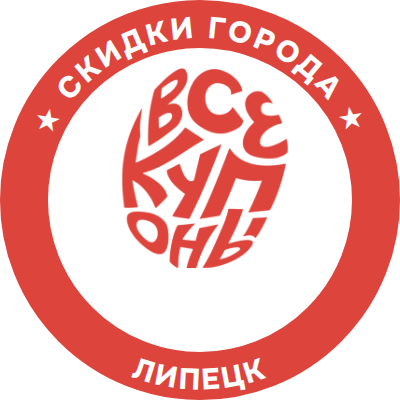
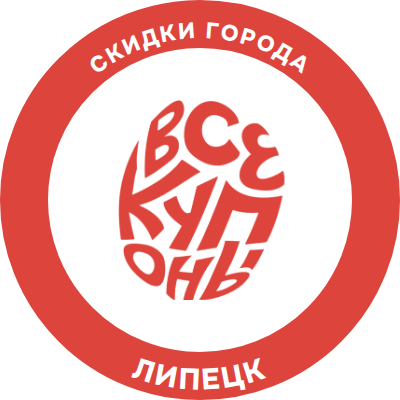
Соцсети: печать — шар по центру, без звёздочек
Claude-Session: https://claude.ai/code/session_01VVvPvHVUv25TaftPDqbPP7

diff --git a/social-kit/kit.js b/social-kit/kit.js
@@ -67,8 +67,8 @@ const AVAS = [
   ["tilt", "av--red", BALL.replace("LOGO", "logo-white"), "Наклейка", "Белый шар крупно на красном, с наклоном — живее, как плашка города на сайте. Ярко и читается в любом размере."],
   ["ring", "",        BALL.replace("LOGO", "logo-red") + '<svg class="arc" viewBox="0 0 100 100"><circle cx="50" cy="50" r="47"/><path id="ARC" d="M9,50A41,41 0 0 0 91,50" fill="none"/><text text-anchor="middle"><textPath href="#ARC" startOffset="50%" data-av-town></textPath></text></svg>', "Город по кругу", "Город дугой по нижнему краю, как на печати или значке. Длинные названия ужимаются по дуге."],
   ["ring-red",  "av--red av-ring", BALL.replace("LOGO", "logo-white") + '<svg class="arc" viewBox="0 0 100 100"><circle cx="50" cy="50" r="47"/><path id="ARC" d="M9,50A41,41 0 0 0 91,50" fill="none"/><text text-anchor="middle"><textPath href="#ARC" startOffset="50%" data-av-town></textPath></text></svg>', "Город по кругу, на красном", "Тот же значок-печать, но белым по красному: ярче в списках, город по нижней дуге."],
-  ["ring-band", "av-ring av-band", BALL.replace("LOGO", "logo-red") + '<svg class="arc" viewBox="0 0 100 100"><circle class="band" cx="50" cy="50" r="44"/><path id="ARC" d="M2.6,50A47.4,47.4 0 0 0 97.4,50" fill="none"/><path id="ARCT" d="M9.5,50A40.5,40.5 0 0 1 90.5,50" fill="none"/><text text-anchor="middle" data-fs="7.4" data-max="128"><textPath href="#ARC" startOffset="50%" data-av-town></textPath></text><text text-anchor="middle" class="top" font-size="5.6"><textPath href="#ARCT" startOffset="50%">★ СКИДКИ ГОРОДА ★</textPath></text></svg>', "Печать с красным ободом", "Город белыми буквами в широком красном ободе, сверху «★ скидки города ★». Город крупнее и читается раньше."],
-  ["ring-band-red", "av--red av-ring av-band", BALL.replace("LOGO", "logo-white") + '<svg class="arc" viewBox="0 0 100 100"><circle class="band" cx="50" cy="50" r="44"/><path id="ARC" d="M2.6,50A47.4,47.4 0 0 0 97.4,50" fill="none"/><path id="ARCT" d="M9.5,50A40.5,40.5 0 0 1 90.5,50" fill="none"/><text text-anchor="middle" data-fs="7.4" data-max="128"><textPath href="#ARC" startOffset="50%" data-av-town></textPath></text><text text-anchor="middle" class="top" font-size="5.6"><textPath href="#ARCT" startOffset="50%">★ СКИДКИ ГОРОДА ★</textPath></text></svg>', "Печать на красном", "Наоборот: красный центр с белым шаром и белый обод с красным городом."]
+  ["ring-band", "av-ring av-band", BALL.replace("LOGO", "logo-red") + '<svg class="arc" viewBox="0 0 100 100"><circle class="band" cx="50" cy="50" r="44"/><path id="ARC" d="M2.6,50A47.4,47.4 0 0 0 97.4,50" fill="none"/><path id="ARCT" d="M9.5,50A40.5,40.5 0 0 1 90.5,50" fill="none"/><text text-anchor="middle" data-fs="7.4" data-max="128"><textPath href="#ARC" startOffset="50%" data-av-town></textPath></text><text text-anchor="middle" class="top" font-size="5.6"><textPath href="#ARCT" startOffset="50%">СКИДКИ ГОРОДА</textPath></text></svg>', "Печать с красным ободом", "Город белыми буквами в широком красном ободе, сверху «скидки города». Город крупнее и читается раньше."],
+  ["ring-band-red", "av--red av-ring av-band", BALL.replace("LOGO", "logo-white") + '<svg class="arc" viewBox="0 0 100 100"><circle class="band" cx="50" cy="50" r="44"/><path id="ARC" d="M2.6,50A47.4,47.4 0 0 0 97.4,50" fill="none"/><path id="ARCT" d="M9.5,50A40.5,40.5 0 0 1 90.5,50" fill="none"/><text text-anchor="middle" data-fs="7.4" data-max="128"><textPath href="#ARC" startOffset="50%" data-av-town></textPath></text><text text-anchor="middle" class="top" font-size="5.6"><textPath href="#ARCT" startOffset="50%">СКИДКИ ГОРОДА</textPath></text></svg>', "Печать на красном", "Наоборот: красный центр с белым шаром и белый обод с красным городом."]
 ];
 const AV_TOWNS = ["Елец", "Нижний Новгород", "Санкт-Петербург"];
 const avArt = (id, cls, inner, t, out, n) =>
@@ -111,7 +111,7 @@ function fitAvatarTowns() {
     tag.style.fontSize = fs + "px";
     while (fs > 18 && Math.max(...[...tag.children].map(s => s.scrollWidth)) > box) tag.style.fontSize = (fs -= 1) + "px";
   });
-  document.querySelectorAll(".av-ring textPath").forEach(tp => {
+  document.querySelectorAll(".av-ring textPath[data-av-town]").forEach(tp => {
     const text = tp.parentNode;
     let fs = parseFloat(text.dataset.fs) || 11;
     const max = parseFloat(text.dataset.max) || 96;

diff --git a/social-kit/kit.css b/social-kit/kit.css
@@ -841,7 +841,8 @@ body{
 /* Вариации «города по кругу» (05.10) */
 .av-ring.av--red .arc text{fill:#fff}
 .av-ring.av--red .arc circle{stroke:#fff}
-.av-band .ball{top:17cqw !important;height:50cqw !important}
+/* Шар — по центру внутреннего круга (центр 50cqw) */
+.av-band .ball{top:25cqw !important;height:50cqw !important;transform:translateX(-49%) !important}
 .av-band .arc circle.band{fill:none;stroke:var(--brand);stroke-width:12}
 .av-band .arc text{fill:#fff !important;letter-spacing:.08em}
 .av-band.av--red .arc circle.band{stroke:#fff}
